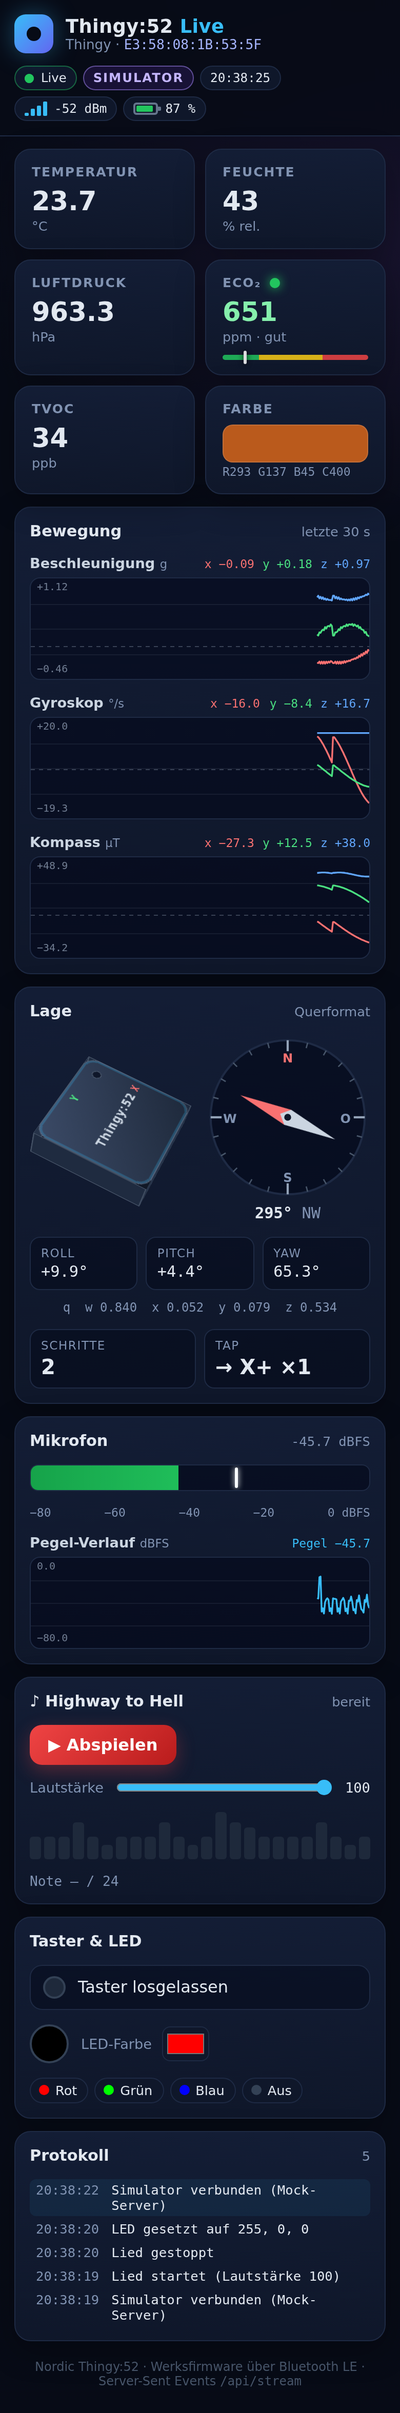
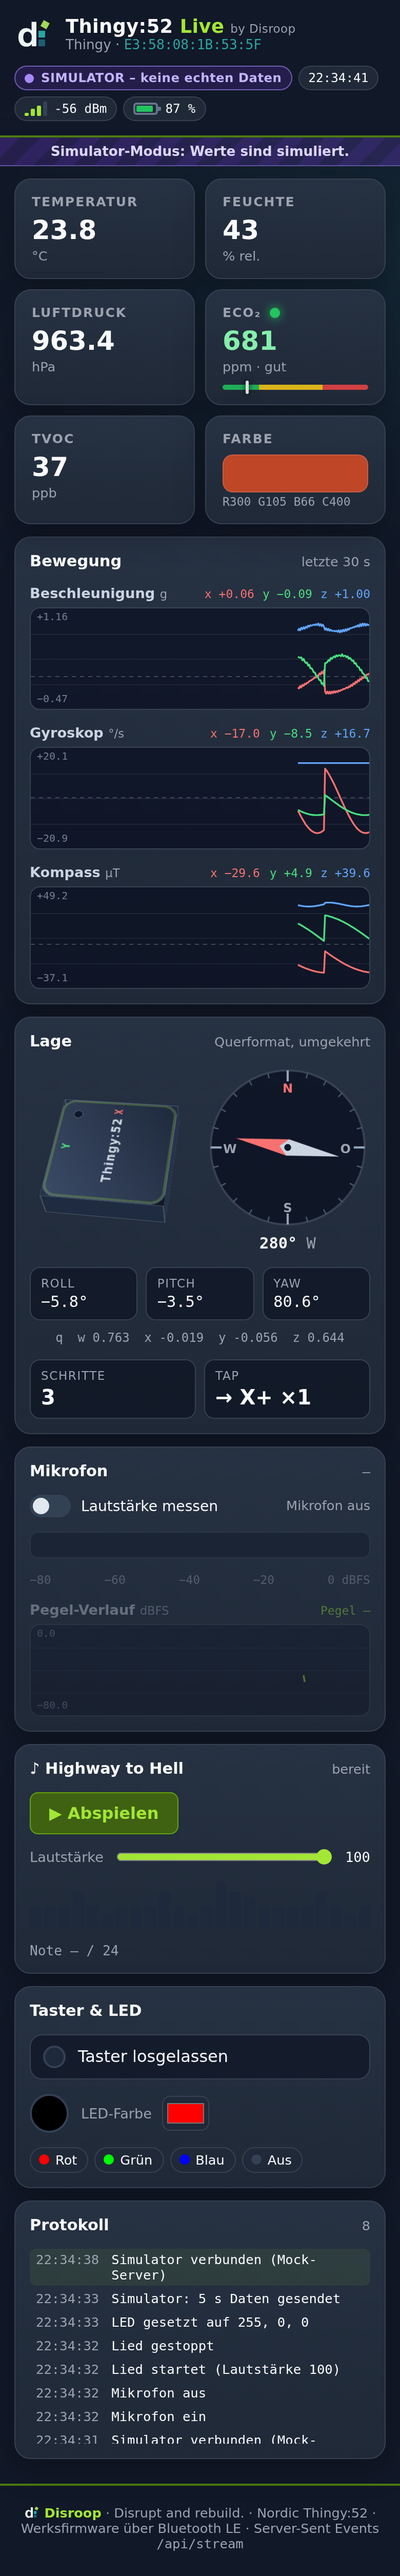
Doku: aktuelle Web-Screenshots (Simulator-Modus, Disroop-Look), Status-Badge beschrieben

Changed region(s): [[0.0, 0.0, 1.0, 0.9996], [0.9538, 0.9371, 0.9846, 0.9683], [0.0308, 0.9371, 0.0615, 0.9683]]

diff --git a/docs/USAGE.md b/docs/USAGE.md
@@ -119,10 +119,11 @@ Thingy:52 live   Quelle: sim   Verbunden: ja   Web: http://localhost:8052
 Öffne http://localhost:8052, während `thingy.exe` läuft.
 
 ![Dashboard](img/dashboard.png)
+*Screenshot im Simulator-Modus (`thingy.exe --sim`), Disroop-Look.*
 
 - **Kopfzeile:**
   - Gerätename und Adresse
-  - Verbindungsstatus, Badge `SIM` im Simulator-Modus
+  - Ein Status-Badge: `LIVE` (grün) bei echter Verbindung, `SIMULATOR` (violett, plus Banner) im Simulator-Modus
   - „Daten veraltet“, wenn 3 s lang nichts kommt
   - Zeit des letzten Werts, RSSI-Balken, Akku
 - **Umgebung:** Temperatur, Feuchte, Luftdruck, eCO₂ mit Ampel (< 800 gut, < 1500 mässig, sonst schlecht), TVOC, Farbfeld mit RGBC-Rohwerten
@@ -133,7 +134,9 @@ Thingy:52 live   Quelle: sim   Verbunden: ja   Web: http://localhost:8052
 - **Taster & LED:** Tasterstatus, Farbwähler und die Presets Rot, Grün, Blau, Aus
 - **Protokoll:** Meldungen der Bridge, z. B. Verbindungen und Fehler
 
-Der Mobile-Screenshot liegt in [img/dashboard-mobile.png](img/dashboard-mobile.png).
+Mobile-Ansicht:
+
+<img src="img/dashboard-mobile.png" width="300" alt="Dashboard mobil">
 
 Die API (`/api/state`, `/api/stream`, `/api/song`, `/api/led`, `/healthz`) ist in [protocol.md §2](protocol.md#2-bridge-api-http-auf-1270018052-web-gui-und-smoke-tests) beschrieben. Aus WSL heraus:
 

diff --git a/README.md b/README.md
@@ -3,6 +3,7 @@
 Live-Demo mit dem **Nordic Thingy:52**: Alle Sensorwerte laufen per Bluetooth LE live ins Terminal, in ein Web-Dashboard und in eine Android-App. Der Thingy spielt dazu „Highway to Hell“, die LED blinkt mit. Der Thingy läuft mit der **Werksfirmware**, Flashen ist nicht nötig.
 
 ![Web-Dashboard](docs/img/dashboard.png)
+*Web-Dashboard im Simulator-Modus (`thingy.exe --sim`). Mobile-Ansicht: [docs/img/dashboard-mobile.png](docs/img/dashboard-mobile.png)*
 
 > **Keine Firmware, kein Flashen, kein Debugger.** Für dieses Projekt wird keine Firmware gebaut. Der Thingy läuft unverändert mit der Nordic-Werksfirmware (v2.x). Unsere Software ist ein reiner **BLE-Client**:
 > - **Empfangen:** Sie abonniert die GATT-Notifications des Thingy (Sensordaten) und dekodiert sie.
